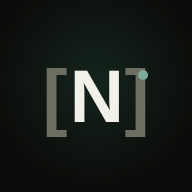
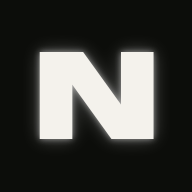
New mark: heavy white NENEMI with a glow
- App icons rebuilt around the glowing N at every size, maskable
  included
- Wordmark above the greeting on Home, drawn from a four-letter font
  subset so it flips with the theme
- Service worker cache bumped so phones pick up the new icons

Claude-Session: https://claude.ai/code/session_01Q8EMny2JakLQGMecZFByUZ

Changed region(s): [[0.1562, 0.2188, 0.8438, 0.75]]

diff --git a/index.html b/index.html
@@ -133,6 +133,8 @@
     background: radial-gradient(circle at 50% 42%, var(--glow) 0%, var(--sanctuary) var(--glow-stop));
   }
   .home-center { display: flex; flex-direction: column; align-items: center; width: 560px; max-width: 90%; }
+  @font-face { font-family: 'Nenemi Mark'; src: url(/icons/nenemi-mark.woff2) format('woff2'); font-weight: 900; font-display: swap; }
+  .wordmark { font-family: 'Nenemi Mark', 'Archivo', sans-serif; font-weight: 900; font-size: 15px; letter-spacing: 0.06em; color: var(--ink); transform: scaleX(1.12); text-shadow: 0 0 10px color-mix(in srgb, var(--ink) 55%, transparent), 0 0 28px color-mix(in srgb, var(--ink) 25%, transparent); margin-bottom: 34px; user-select: none; }
   .greeting-big { font-family: var(--font-display); font-weight: 700; font-size: 32px; line-height: 1.35; text-align: center; margin-bottom: 30px; }
   .greeting-big .accent { color: var(--ink); }
 
@@ -437,6 +439,7 @@
     .app { height: 100vh; height: 100dvh; padding-top: env(safe-area-inset-top); }
     /* home */
     .greeting-big { font-size: 26px; margin-bottom: 22px; }
+    .wordmark { font-size: 13px; margin-bottom: 26px; }
     .home-center { width: 100%; max-width: 94%; }
     .chat-log { max-height: 34vh; }
     .intro { font-size: 12px; margin-top: 20px; }
@@ -545,6 +548,7 @@
     <!-- HOME -->
     <div class="pane active" id="pane-home">
       <div class="home-center">
+        <div class="wordmark" aria-label="Nenemi">NENEMI</div>
         <div class="greeting-big" id="greetingText">Hey there,<br><span class="accent">what's on your mind?</span></div>
 
         <div class="composer-pill">

diff --git a/nenemi-handover/prototypes/index.html b/nenemi-handover/prototypes/index.html
@@ -133,6 +133,8 @@
     background: radial-gradient(circle at 50% 42%, var(--glow) 0%, var(--sanctuary) var(--glow-stop));
   }
   .home-center { display: flex; flex-direction: column; align-items: center; width: 560px; max-width: 90%; }
+  @font-face { font-family: 'Nenemi Mark'; src: url(/icons/nenemi-mark.woff2) format('woff2'); font-weight: 900; font-display: swap; }
+  .wordmark { font-family: 'Nenemi Mark', 'Archivo', sans-serif; font-weight: 900; font-size: 15px; letter-spacing: 0.06em; color: var(--ink); transform: scaleX(1.12); text-shadow: 0 0 10px color-mix(in srgb, var(--ink) 55%, transparent), 0 0 28px color-mix(in srgb, var(--ink) 25%, transparent); margin-bottom: 34px; user-select: none; }
   .greeting-big { font-family: var(--font-display); font-weight: 700; font-size: 32px; line-height: 1.35; text-align: center; margin-bottom: 30px; }
   .greeting-big .accent { color: var(--ink); }
 
@@ -437,6 +439,7 @@
     .app { height: 100vh; height: 100dvh; padding-top: env(safe-area-inset-top); }
     /* home */
     .greeting-big { font-size: 26px; margin-bottom: 22px; }
+    .wordmark { font-size: 13px; margin-bottom: 26px; }
     .home-center { width: 100%; max-width: 94%; }
     .chat-log { max-height: 34vh; }
     .intro { font-size: 12px; margin-top: 20px; }
@@ -545,6 +548,7 @@
     <!-- HOME -->
     <div class="pane active" id="pane-home">
       <div class="home-center">
+        <div class="wordmark" aria-label="Nenemi">NENEMI</div>
         <div class="greeting-big" id="greetingText">Hey there,<br><span class="accent">what's on your mind?</span></div>
 
         <div class="composer-pill">

diff --git a/nenemi-handover/prototypes/nenemi-prototype-desktop.html b/nenemi-handover/prototypes/nenemi-prototype-desktop.html
@@ -133,6 +133,8 @@
     background: radial-gradient(circle at 50% 42%, var(--glow) 0%, var(--sanctuary) var(--glow-stop));
   }
   .home-center { display: flex; flex-direction: column; align-items: center; width: 560px; max-width: 90%; }
+  @font-face { font-family: 'Nenemi Mark'; src: url(/icons/nenemi-mark.woff2) format('woff2'); font-weight: 900; font-display: swap; }
+  .wordmark { font-family: 'Nenemi Mark', 'Archivo', sans-serif; font-weight: 900; font-size: 15px; letter-spacing: 0.06em; color: var(--ink); transform: scaleX(1.12); text-shadow: 0 0 10px color-mix(in srgb, var(--ink) 55%, transparent), 0 0 28px color-mix(in srgb, var(--ink) 25%, transparent); margin-bottom: 34px; user-select: none; }
   .greeting-big { font-family: var(--font-display); font-weight: 700; font-size: 32px; line-height: 1.35; text-align: center; margin-bottom: 30px; }
   .greeting-big .accent { color: var(--ink); }
 
@@ -437,6 +439,7 @@
     .app { height: 100vh; height: 100dvh; padding-top: env(safe-area-inset-top); }
     /* home */
     .greeting-big { font-size: 26px; margin-bottom: 22px; }
+    .wordmark { font-size: 13px; margin-bottom: 26px; }
     .home-center { width: 100%; max-width: 94%; }
     .chat-log { max-height: 34vh; }
     .intro { font-size: 12px; margin-top: 20px; }
@@ -545,6 +548,7 @@
     <!-- HOME -->
     <div class="pane active" id="pane-home">
       <div class="home-center">
+        <div class="wordmark" aria-label="Nenemi">NENEMI</div>
         <div class="greeting-big" id="greetingText">Hey there,<br><span class="accent">what's on your mind?</span></div>
 
         <div class="composer-pill">

diff --git a/sw.js b/sw.js
@@ -2,8 +2,8 @@
 // available offline. Network-first for the page so updates flow through;
 // the API is never cached (sync handles offline on its own via localStorage).
 
-const VERSION = 'nenemi-shell-v1';
-const SHELL = ['/', '/index.html', '/manifest.webmanifest', '/icons/icon-192.png', '/icons/icon-512.png', '/icons/apple-touch-icon.png'];
+const VERSION = 'nenemi-shell-v2';
+const SHELL = ['/', '/index.html', '/manifest.webmanifest', '/icons/icon-192.png', '/icons/icon-512.png', '/icons/apple-touch-icon.png', '/icons/nenemi-mark.woff2'];
 
 self.addEventListener('install', (event) => {
   event.waitUntil(caches.open(VERSION).then((c) => c.addAll(SHELL)).then(() => self.skipWaiting()));
